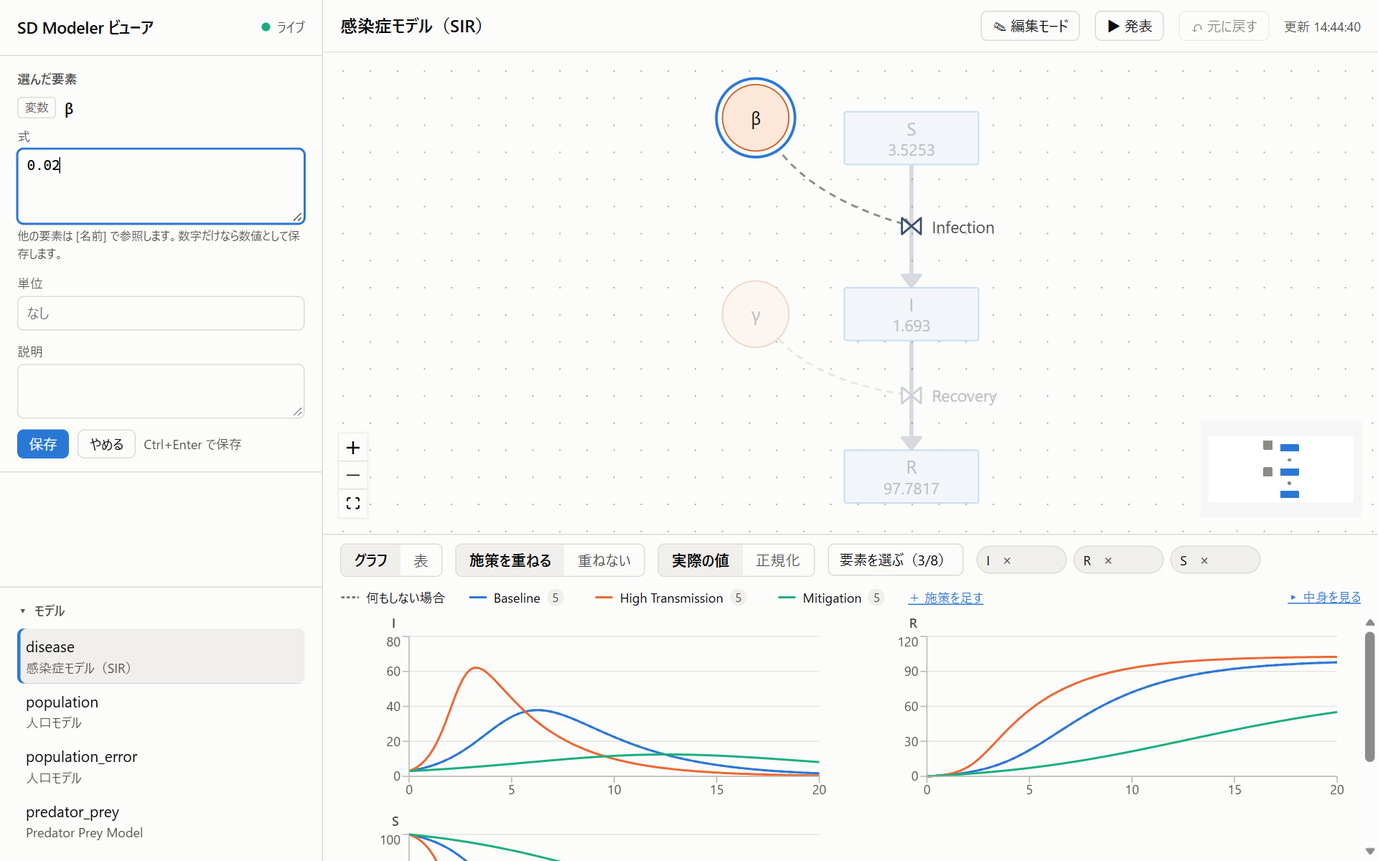
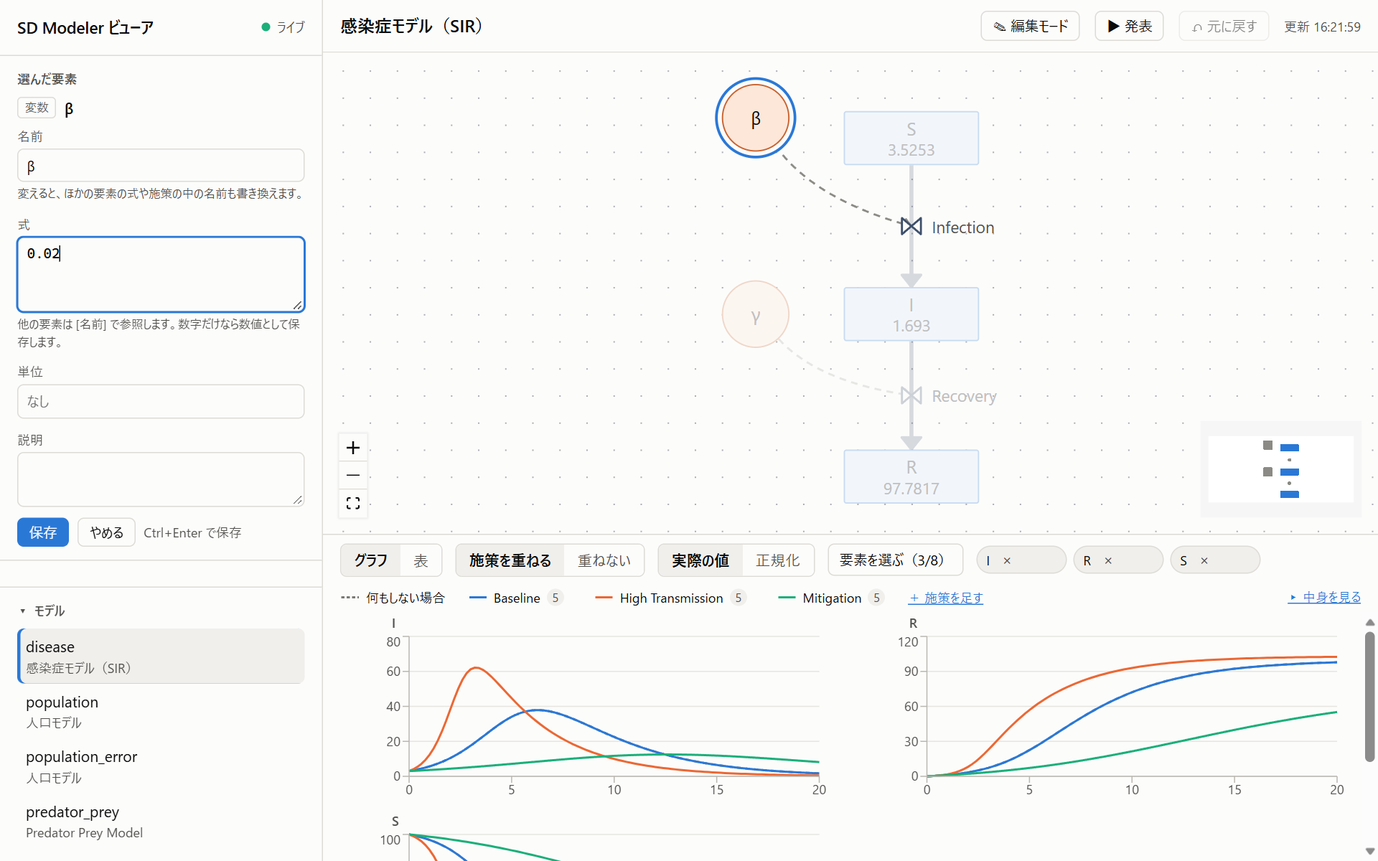
ビューア：詳細欄の「編集」で要素の名前を変える
「編集」の入力欄に「名前」を足し、保存すると rename_to で送る。編集 API と元に戻すの応答に、変わった名前（renamed）を返すようにし、選んでいる要素とグラフに出している要素・線の色を新しい名前に引き継ぐ。元に戻すと旧名に戻る。

VIEWER を直し、レビューで残した 2 点を BACKLOG に書き留める。

diff --git a/web/src/App.tsx b/web/src/App.tsx
@@ -5,7 +5,7 @@ import { fetchList, fetchModel, postEdit, postRemove, postScenarios, postUndo, t
 import { Chart, formatValue, scenarioColor } from "./Chart.js";
 import { Details } from "./Details.js";
 import { Diagram, type LinkEnds, type ScenarioMarks } from "./Diagram.js";
-import { addElementPatches, linkProblem, linkRemoveProblem, type NewElementType } from "./editing.js";
+import { addElementPatches, linkProblem, linkRemoveProblem, renamedName, type NewElementType } from "./editing.js";
 import { toGraph } from "../../src/core/diagram.js";
 import { LOOP_KIND_LABEL, type LoopView } from "../../src/core/loops.js";
 import { findLink, sameName } from "../../src/core/modeljson.js";
@@ -51,6 +51,9 @@ function changedElements(prev: ModelResponse | undefined, next: ModelResponse): 
 /** 順番待ちのあいだに AI などの変更が画面に出たため、送らなかった書き込みの知らせ */
 const SKIPPED_MESSAGE = "画面の変更を送る前に、ほかのところ（AI など）でモデルが変わったため、送りませんでした。いまの内容を確かめて、もう一度直してください。";
 
+/** 名前の変わった要素がないとき。いつも同じ配列にして、表示するたびにグラフを描き直させない */
+const NO_RENAMES: [string, string][] = [];
+
 /** 両端が同じリンクか（大文字と小文字は区別しない） */
 const sameLink = (a: LinkEnds, b: LinkEnds) => sameName(a.from, b.from) && sameName(a.to, b.to);
 
@@ -92,11 +95,13 @@ export function App() {
   // グラフの上の施策の凡例にカーソルを乗せている施策
   const [hoveredScenario, setHoveredScenario] = useState<string>();
   const [changed, setChanged] = useState<Set<string>>(new Set());
+  // いま出している版で名前の変わった要素（画面で名前を変えた・元に戻したとき）。グラフに出す要素を新しい名前に合わせる
+  const [renamed, setRenamed] = useState<[string, string][]>(NO_RENAMES);
   const [updatedAt, setUpdatedAt] = useState<Date>();
   const [busy, setBusy] = useState(false);
   // 編集モード（図の形を変える操作をできるようにする）。うっかり動かさないよう、開くたびにオフから始める（ブラウザに覚えさせない）
   const [editMode, setEditMode] = useState(false);
-  // 画面で要素を足した・消した（元に戻した）あとの版。この版を出している間は、要素が増減しても図の見る場所を合わせ直さない
+  // 画面で要素を足した・消した・名前を変えた（元に戻した）あとの版。この版を出している間は、要素が増減しても図の見る場所を合わせ直さない
   const [keepView, setKeepView] = useState<string>();
   // 要素を消したときの知らせ。元に戻したら閉じる
   const removedNotice = useRef<string>(undefined);
@@ -128,14 +133,24 @@ export function App() {
     }
   }, []);
 
-  /** 新しい内容を表示する。highlight なら、変わった要素に枠を付ける（ほかで変わったとき） */
-  const show = useCallback((next: ModelResponse, highlight: boolean) => {
+  /**
+   * 新しい内容を表示する。highlight なら、変わった要素に枠を付ける（ほかで変わったとき）。
+   * renames は、前の版から名前の変わった要素。選んでいる要素や線を新しい名前で選んだままにし、図の見る場所も動かさない
+   */
+  const show = useCallback((next: ModelResponse, highlight: boolean, renames = NO_RENAMES) => {
     // これより前に始めた読み込みの結果は捨てる
     loadSeq.current++;
     if (highlight) externalSeq.current++;
     const diff = highlight ? changedElements(dataRef.current, next) : new Set<string>();
     dataRef.current = next;
     setData(next);
+    setRenamed(renames);
+    if (renames.length) {
+      setSelected((s) => s && renamedName(s, renames));
+      setSelectedLink((l) => l && { from: renamedName(l.from, renames), to: renamedName(l.to, renames) });
+      // 名前を変えると図のノードの ID も変わるが、要素は増えも減りもしていないので、見る場所を合わせ直さない
+      setKeepView(next.version);
+    }
     setError(undefined);
     setUpdatedAt(new Date());
     if (diff.size) {
@@ -241,7 +256,7 @@ export function App() {
       if (shown && !sameModel(shown, currentRef.current)) return undefined;
       if (result.ok) {
         // 前の知らせ（衝突など）は、利用者が閉じるまで残す
-        show(result.data.model, false);
+        show(result.data.model, false, result.data.renamed);
         // 書き込めたが知らせたいこと（実際のデータの列名を直せなかったときなど）
         if (result.data.warning) setNotice(result.data.warning);
         return undefined;
@@ -711,6 +726,7 @@ export function App() {
               run={data.run}
               scenarios={data.scenarios}
               actual={data.actual}
+              renamed={renamed}
               editingScenario={scenario?.name}
               onEditScenario={(name) => setScenario({ name })}
               onFocusScenario={setHoveredScenario}

diff --git a/web/src/Chart.tsx b/web/src/Chart.tsx
@@ -2,6 +2,7 @@ import { memo, useEffect, useId, useLayoutEffect, useMemo, useRef, useState } fr
 import { CartesianGrid, Line, LineChart, ResponsiveContainer, Tooltip, XAxis, YAxis, type TooltipContentProps } from "recharts";
 import type { ActualDataResult, ModelJSON, RunResult, ScenarioRunResult } from "../../src/viewer/api.js";
 import { sameTime, withActualPoints } from "./actualPoints.js";
+import { renamedName } from "./editing.js";
 import { normalize, normalizeLike, normalizeTogether } from "./normalize.js";
 import { BASELINE_NAME, compareRuns, describeRun, resultRows, valueRows, type CompareRun, type CompareRuns } from "./scenarios.js";
 import { groupCandidates, type SeriesCandidate } from "./seriesPicker.js";
@@ -73,6 +74,9 @@ function assignSlots(visible: string[], prev: Map<string, number>): Map<string, 
   return next;
 }
 
+/** 線の色の割り当てを、名前を変えたあとの名前にする */
+const renamedKeys = (slots: Map<string, number>, renamed: [string, string][]) => new Map([...slots].map(([n, slot]) => [renamedName(n, renamed), slot]));
+
 /**
  * 縦軸の決め方。
  * - value: 値そのまま
@@ -122,6 +126,8 @@ export interface ChartProps {
   scenarios?: ScenarioRunResult[];
   /** 実際のデータ。あれば点で重ねる */
   actual?: ActualDataResult;
+  /** いまの版で名前の変わった要素の [前の名前, 新しい名前]。グラフに出している要素を新しい名前で出し続ける */
+  renamed?: [string, string][];
   /** 左の欄で直している施策の名前（凡例で目立たせる） */
   editingScenario?: string;
   /** 施策の編集欄を開く。name がなければ施策を足す */
@@ -145,11 +151,15 @@ export function scenarioColor(run: RunResult, scenarios: ScenarioRunResult[], na
 /** 施策を重ねているときの、実際のデータの点の色 */
 const ACTUAL_COMPARE_COLOR = "var(--text-primary)";
 
-export function Chart({ modelName, model, run, scenarios, actual, editingScenario, onEditScenario, onFocusScenario }: ChartProps) {
+export function Chart({ modelName, model, run, scenarios, actual, renamed, editingScenario, onEditScenario, onFocusScenario }: ChartProps) {
   const candidates = useMemo(() => candidatesOf(model, run), [model, run]);
   const names = useMemo(() => candidates.map((c) => c.name), [candidates]);
-  const [visible, setVisible] = useState<string[]>(() => defaultVisible(model, names));
-  const [slots, setSlots] = useState<Map<string, number>>(() => assignSlots(visible, new Map()));
+  // グラフに出す要素と線の色。名前を変えた版を受け取った描画では、下の effect が直すまで、前の名前のままになっている
+  const [chosen, setVisible] = useState<string[]>(() => defaultVisible(model, names));
+  const [chosenSlots, setSlots] = useState<Map<string, number>>(() => assignSlots(chosen, new Map()));
+  // そのあいだも線が消えないように、描くときは新しい名前に読み替える
+  const visible = useMemo(() => (renamed?.length ? chosen.map((n) => renamedName(n, renamed)) : chosen), [chosen, renamed]);
+  const slots = useMemo(() => (renamed?.length ? renamedKeys(chosenSlots, renamed) : chosenSlots), [chosenSlots, renamed]);
   const [view, setView] = useState<"chart" | "table">("chart");
   const [scale, setScaleState] = useState<Scale>(loadScale);
   // 施策を重ねるか。施策が保存されていれば、はじめは重ねる
@@ -166,7 +176,7 @@ export function Chart({ modelName, model, run, scenarios, actual, editingScenari
     saveScale(s);
   };
 
-  // 別のモデルを開いたら選び直す。同じモデルの更新では、消えた要素だけ外す
+  // 別のモデルを開いたら選び直す。同じモデルの更新では、名前の変わった要素は新しい名前にし、消えた要素だけ外す
   const [shownModel, setShownModel] = useState(modelName);
   useEffect(() => {
     if (shownModel !== modelName) {
@@ -176,11 +186,13 @@ export function Chart({ modelName, model, run, scenarios, actual, editingScenari
       setSlots(assignSlots(v, new Map()));
       return;
     }
-    const keep = visible.filter((n) => names.includes(n));
-    if (keep.length !== visible.length) {
+    const pairs = renamed ?? [];
+    const keep = chosen.map((n) => renamedName(n, pairs)).filter((n) => names.includes(n));
+    if (keep.length !== chosen.length || keep.some((n, i) => n !== chosen[i])) {
       const v = keep.length ? keep : defaultVisible(model, names);
       setVisible(v);
-      setSlots((s) => assignSlots(v, s));
+      // 線の色は、名前を変えても同じにする
+      setSlots((s) => assignSlots(v, renamedKeys(s, pairs)));
     }
   }, [modelName, model, names]); // eslint-disable-line react-hooks/exhaustive-deps
 

diff --git a/web/src/editing.ts b/web/src/editing.ts
@@ -30,6 +30,7 @@ export function parseTable(text: string): [number, number][] {
 export const tableText = (data: unknown) => (Array.isArray(data) ? (data as [number, number][]).map(([x, y]) => `${x}, ${y}`).join("\n") : "");
 
 export interface Form {
+  name: string;
   equation: string;
   table: string;
   units: string;
@@ -41,6 +42,7 @@ export function formOf(el: ModelElement): Form {
   const b = el.behavior ?? {};
   const eq = el.type === "STOCK" ? b.initial_value : b.value;
   return {
+    name: el.name ?? "",
     equation: eq === undefined ? "" : String(eq),
     table: tableText(b.data),
     units: b.units ? String(b.units) : "",
@@ -53,6 +55,11 @@ export function formOf(el: ModelElement): Form {
 export function patchOf(el: ModelElement, before: Form, after: Form): ElementPatch | undefined {
   const behavior: Record<string, unknown> = {};
   const patch: ElementPatch = { name: el.name! };
+  // 名前を変えると、サーバーが式・施策・実際のデータの列名などの参照も書き換える
+  if (after.name.trim() !== before.name.trim()) {
+    if (!after.name.trim()) throw new Error("名前が空です。");
+    patch.rename_to = after.name.trim();
+  }
   if (el.type !== "CONVERTER" && after.equation.trim() !== before.equation.trim()) {
     if (!after.equation.trim()) throw new Error(el.type === "STOCK" ? "初期値が空です。" : "式が空です。");
     behavior[el.type === "STOCK" ? "initial_value" : "value"] = parseEquation(after.equation);
@@ -63,6 +70,11 @@ export function patchOf(el: ModelElement, before: Form, after: Form): ElementPat
   if (Object.keys(behavior).length) patch.behavior = behavior;
   if (after.description.trim() !== before.description.trim()) patch.description = after.description.trim() || null;
   return Object.keys(patch).length > 1 ? patch : undefined;
+}
+
+/** 名前を変えたあとの名前。変えていなければそのまま（大文字と小文字、前後の空白は区別しない） */
+export function renamedName(name: string, renamed: [string, string][]): string {
+  return renamed.find(([from]) => sameName(from, name))?.[1] ?? name;
 }
 
 /** 編集モードで図に足せる要素の種類 */

diff --git a/web/src/Details.tsx b/web/src/Details.tsx
@@ -2,7 +2,7 @@ import { useEffect, useState } from "react";
 import type { ElementPatch, ModelElement } from "../../src/viewer/api.js";
 import { formOf, patchOf, type Form } from "./editing.js";
 
-// 選んだ要素の詳しい情報と、その編集（E1）。
+// 選んだ要素の詳しい情報と、その編集（E1）。「編集」の中で名前も変えられる（E3）。
 // 編集は MCP の upsert_elements と同じ形（変えた項目だけ）でサーバーに送る。
 
 const TYPE_LABEL: Record<string, string> = {
@@ -52,7 +52,7 @@ export function Details({ el, value, onSave }: DetailsProps) {
       // 編集しているあいだに、この要素がほかで変わった。黙って上書きせず、一度知らせる
       setBase(latest);
       setError(
-        `編集しているあいだに、ほかのところ（AI など）でこの要素が変わりました（いまの${el.type === "STOCK" ? "初期値" : "式"}: ${
+        `編集しているあいだに、ほかのところ（AI など）でこの要素が変わりました（${latest.name !== base.name ? `いまの名前: ${latest.name}、` : ""}いまの${el.type === "STOCK" ? "初期値" : "式"}: ${
           el.type === "CONVERTER" ? latest.table.replace(/\n/g, " / ") : latest.equation || "なし"
         }）。もう一度「保存」を押すと、この欄の内容で上書きします。`,
       );
@@ -107,6 +107,11 @@ export function Details({ el, value, onSave }: DetailsProps) {
       <div className="details" onKeyDown={onKeyDown}>
         {head}
         <div className="form">
+          <label>
+            <span>名前</span>
+            <input value={form.name} onChange={(e) => set("name", e.target.value)} />
+            <small className="muted">変えると、ほかの要素の式や施策の中の名前も書き換えます。</small>
+          </label>
           {el.type === "CONVERTER" ? (
             <label>
               <span>表（1 行に「入力, 出力」）</span>

diff --git a/tests/viewer-editing.test.ts b/tests/viewer-editing.test.ts
@@ -1,6 +1,6 @@
 import { describe, expect, test } from "vitest";
 import { emptyModel, toGraph, upsertElements, type ModelElement } from "../src/core/index.js";
-import { addElementPatches, formOf, linkProblem, linkRemoveProblem, newElementName, parseEquation, parseTable, patchOf } from "../web/src/editing.js";
+import { addElementPatches, formOf, linkProblem, linkRemoveProblem, newElementName, parseEquation, parseTable, patchOf, renamedName } from "../web/src/editing.js";
 
 describe("編集フォームの値", () => {
   test("数字だけなら数値、それ以外は式の文字列", () => {
@@ -54,6 +54,25 @@ describe("送る変更の組み立て", () => {
     const f = formOf(c);
     expect(f.table).toBe("0, 1");
     expect(patchOf(c, f, { ...f, table: "0, 1\n5, 2" })).toEqual({ name: "c", behavior: { data: [[0, 1], [5, 2]] } });
+  });
+
+  test("名前を変えると rename_to で送り、空の名前はエラー", () => {
+    const f = formOf(stock);
+    expect(f.name).toBe("S");
+    expect(patchOf(stock, f, { ...f, name: " 人口 " })).toEqual({ name: "S", rename_to: "人口" });
+    expect(patchOf(stock, f, { ...f, name: "人口", equation: "200" })).toEqual({ name: "S", rename_to: "人口", behavior: { initial_value: 200 } });
+    expect(patchOf(stock, f, { ...f, name: "S " })).toBeUndefined();
+    expect(() => patchOf(stock, f, { ...f, name: " " })).toThrow(/名前が空/);
+  });
+});
+
+describe("名前を変えたあとの名前", () => {
+  test("変えた要素は新しい名前、ほかはそのまま。大文字と小文字は区別しない", () => {
+    const renamed: [string, string][] = [["Population", "人口"]];
+    expect(renamedName("Population", renamed)).toBe("人口");
+    expect(renamedName("population", renamed)).toBe("人口");
+    expect(renamedName("Births", renamed)).toBe("Births");
+    expect(renamedName("Population", [])).toBe("Population");
   });
 });
 

diff --git a/web/src/Diagram.tsx b/web/src/Diagram.tsx
@@ -206,7 +206,7 @@ export interface DiagramProps {
   scenario?: ScenarioMarks;
   /** 編集モード。オンのときだけ要素を動かせて、図の上に編集の道具の場所を出す。選ぶ・薄くするなどの見るための操作はいつでもできる */
   editable?: boolean;
-  /** 画面で要素を足した・消した直後の図。要素が増減しても、見る場所を合わせ直さない（置いた位置と見た目がずれないように） */
+  /** 画面で要素を足した・消した・名前を変えた直後の図。要素が増減しても（名前を変えるとノードの ID も変わる）、見る場所を合わせ直さない（置いた位置と見た目がずれないように） */
   keepView?: boolean;
   /** 編集モードで、図の at（図の座標）に要素を足す */
   onAdd?(type: NewElementType, at: Pos): void;
@@ -594,7 +594,7 @@ const miniMapColor = (n: ModelNodeT) => (n.data.g.kind === "STOCK" ? "var(--stoc
 
 /**
  * 表示範囲を合わせ直す。別のモデルを開いたとき、配置を切り替えたとき、要素が増減したとき、図の欄の大きさが変わったとき。
- * 式や値が変わっただけのとき（AI が値を調整したなど）は動かさない。画面で要素を足した・消したとき（keepView）も、増減では動かさない。
+ * 式や値が変わっただけのとき（AI が値を調整したなど）は動かさない。画面で要素を足した・消した・名前を変えたとき（keepView）も、増減では動かさない。
  * 全体が名前の読める大きさで入らないときは、ストックが入るように合わせる（ほかはドラッグやミニマップで見る）。
  */
 function FitOnChange({

diff --git a/tests/viewer-server.test.ts b/tests/viewer-server.test.ts
@@ -208,6 +208,17 @@ describe("実際のデータ", () => {
     expect(u.body.model.actual!.series).toEqual({ Population: [100] });
   });
 
+  test("名前を変えた・元に戻したときは、変わった名前を返す（画面で選んでいる要素を合わせるため）", async () => {
+    const v0 = (await get<ModelResponse>("/api/models/pop")).body.version;
+    const e1 = await post<EditResponse>("/api/models/pop/edit", { version: v0, elements: [{ name: "Population", rename_to: "人口" }] });
+    expect(e1.body.renamed).toEqual([["Population", "人口"]]);
+    expect(e1.body.model.model.elements.find((e) => e.name === "Births")!.behavior!.value).toMatch(/\[人口\]/);
+    const u = await post<EditResponse>("/api/models/pop/undo", { version: e1.body.model.version });
+    expect(u.body.renamed).toEqual([["人口", "Population"]]);
+    const e2 = await post<EditResponse>("/api/models/pop/edit", { version: u.body.model.version, elements: [{ name: "Population", behavior: { initial_value: 5 } }] });
+    expect(e2.body.renamed).toBeUndefined();
+  });
+
   test("列名を直せなくても、編集は保存して元に戻せるようにし、知らせを添える", async () => {
     const store = new ModelStore(dir);
     // 変えると列名が重なるので、CSV は直せない

diff --git a/src/viewer/server.ts b/src/viewer/server.ts
@@ -378,7 +378,7 @@ export async function startViewer(options: ViewerOptions): Promise<Viewer> {
           if (slides.note) report.notes.push(slides.note);
           const warning = [data.warning, slides.warning].filter(Boolean).join("\n");
           const model = await modelResponse(store, name, current.model, version, hist.length);
-          return [200, warning ? { report, model, warning } : { report, model }];
+          return [200, { report, model, ...(warning ? { warning } : {}), ...(renamed.length ? { renamed } : {}) }];
         }
         if (action === "scenarios") {
           if (!Array.isArray(body.scenarios)) throw new HttpError(400, "scenarios がありません。");
@@ -433,7 +433,7 @@ export async function startViewer(options: ViewerOptions): Promise<Viewer> {
         const slides = await store.renameSlideNames(name, { elements: back, scenarios: backScenarios });
         const warning = [data.warning, slides.warning].filter(Boolean).join("\n");
         const model = await loadModelResponse(store, name, hist.length);
-        return [200, warning ? { model, warning } : { model }];
+        return [200, { model, ...(warning ? { warning } : {}), ...(back.length ? { renamed: back } : {}) }];
       });
       sendJSON(res, result[0], result[1]);
     } catch (e) {

diff --git a/src/viewer/api.ts b/src/viewer/api.ts
@@ -110,6 +110,8 @@ export interface EditResponse {
   model: ModelResponse;
   /** 書き込めたが、知らせたいこと（実際のデータの列名を直せなかったときなど） */
   warning?: string;
+  /** 名前の変わった要素の [前の名前, 新しい名前]（名前を変えた・元に戻したとき）。画面で選んでいる要素を新しい名前に合わせるため */
+  renamed?: [string, string][];
 }
 
 /** 書き込めなかったとき。conflict はほかから先に変えられていた場合で、current に最新を入れる */

diff --git a/docs/VIEWER.md b/docs/VIEWER.md
@@ -280,18 +280,20 @@ AI は `find_loops` でフィードバックループを探し、`view_diagram` 
 
 | 要素 | 直せる項目 |
 |---|---|
-| ストック | 初期値、単位、負にしない、説明 |
-| 変数 | 式、単位、説明 |
-| フロー | 流量、単位、負にしない、説明 |
-| コンバーター | 表（1 行に「入力, 出力」）、単位、説明 |
+| ストック | 名前、初期値、単位、負にしない、説明 |
+| 変数 | 名前、式、単位、説明 |
+| フロー | 名前、流量、単位、負にしない、説明 |
+| コンバーター | 名前、表（1 行に「入力, 出力」）、単位、説明 |
 
 - 式の中では、ほかの要素を `[名前]` で参照します（例：`[Population]*[Birth Rate]`）。数字だけなら数値として保存します
 - 「保存」か Ctrl+Enter で保存します。「やめる」か Esc で、直す前に戻ります
 - 保存すると、すぐにモデルを実行し直して、図の最終値とグラフが変わります
 - 式で新しい要素を参照すると、足りないリンク（点線の矢印）を自動で足します。AI が `upsert_elements` で直したときと同じです
 - 式に誤りがあっても保存はします。左の「問題」にエラーが出るので、直してください
+- 名前を変えると、ほかの要素の式、施策の中の名前、実際のデータの列名、会議資料の筋書きの中の名前も書き換えます。選んでいる要素や線、グラフに出している要素は、新しい名前のまま続きます。図の見る場所も動かしません。「元に戻す」で、名前と書き換えた参照をまとめて戻せます
+- ほかの要素と同じ名前（大文字と小文字の違いだけのものも含む）には変えられません。そのときは、欄の下にエラーが出ます
 
-状態と遷移は編集できません。名前の変更もまだできないので、AI に頼みます。要素を足す・消す、線（リンク）を引く・消すのは、[編集モード](#編集モード)でできます。施策は画面で足したり直したりできます（[施策を直す](#施策を直す)）。
+状態と遷移は編集できません。要素を足す・消す、線（リンク）を引く・消すのは、[編集モード](#編集モード)でできます。施策は画面で足したり直したりできます（[施策を直す](#施策を直す)）。
 
 ## 編集モード
 
@@ -364,7 +366,7 @@ AI は `find_loops` でフィードバックループを探し、`view_diagram` 
 
 ## 元に戻す
 
-上の帯の「↶ 元に戻す」か Ctrl+Z（Mac は ⌘Z）で、画面で変えたことを 1 つずつ元に戻せます。式の変更も、要素の移動も、要素を足す・消すことも、施策の変更（足す・直す・消す）も戻せます。編集モードに関係なく使えます。施策の名前を戻すと、筋書きの中の名前も戻します。
+上の帯の「↶ 元に戻す」か Ctrl+Z（Mac は ⌘Z）で、画面で変えたことを 1 つずつ元に戻せます。式や名前の変更も、要素の移動も、要素を足す・消すことも、施策の変更（足す・直す・消す）も戻せます。編集モードに関係なく使えます。要素や施策の名前を戻すと、式・施策・実際のデータの列名・筋書きの中の名前も戻します。
 
 - 戻せるのは、この画面（ビューア）で変えたことだけです。AI が変えたことは戻せません（AI に頼みます）
 - 画面で変えたあとに AI がモデルを変えていたら、戻しません。AI の変更を消してしまわないためです。そのときは、そのことを知らせます
@@ -426,7 +428,6 @@ AI が MCP でモデルを保存すると、すぐに画面が変わります。
 
 ## できないこと
 
-- 名前を変えること（段階 3 の続きで作る予定。それまでは AI に頼みます）
 - フローの端を、雲からストックにつなぎ替えること。リンクの極性（`+` `-`）を付けること（AI に頼みます）
 - 状態と遷移を編集すること
 - 施策の値を、保存せずにその場で動かして試すこと（施策は保存してから、グラフで比べます）

diff --git a/README.md b/README.md
@@ -147,10 +147,10 @@ npm run viewer
 - **問題：** 検証のエラーと警告を出す。エラーがあるときは実行しない
 - **発表モード：** 上の帯の「▶ 発表」か `?view=present#<モデル名>` で開く。AI が `set_slides` で作った筋書きを、16:9 の画面に大きな文字で 1 枚ずつ出し、← → で進む。式や編集の欄は出さない。`&print=1` を付けると、すべてのスライドを 1 枚 1 ページに並べた印刷の形になる（`export_slides` はこれを PDF にする）
 
-- **編集：** 選んだ要素の式、初期値、単位などを直せる。上の帯の「編集モード」をオンにすると、図の要素をドラッグして位置を保存したり、ストック・フロー・変数を足したり、要素どうしを線（リンク）でつないだり、選んだ要素や線を消したりできる（オフの間は図の形が変わらない）。グラフの上の施策の凡例を押すと、施策（名前、説明、変える値）を直せる。「＋ 施策を足す」で足し、「この施策を消す」で消す。画面で変えたことは「元に戻す」（Ctrl+Z）で戻せる。どれも MCP と同じファイルに書き戻す
+- **編集：** 選んだ要素の名前、式、初期値、単位などを直せる（名前を変えると、式や施策の中の名前も書き換える）。上の帯の「編集モード」をオンにすると、図の要素をドラッグして位置を保存したり、ストック・フロー・変数を足したり、要素どうしを線（リンク）でつないだり、選んだ要素や線を消したりできる（オフの間は図の形が変わらない）。グラフの上の施策の凡例を押すと、施策（名前、説明、変える値）を直せる。「＋ 施策を足す」で足し、「この施策を消す」で消す。画面で変えたことは「元に戻す」（Ctrl+Z）で戻せる。どれも MCP と同じファイルに書き戻す
 - **AI との同時の変更：** 画面より先に AI がモデルを変えていたら、黙って上書きせずに知らせる
 
-名前を変える操作と、フローの端をストックにつなぐ操作は、まだ画面からはできない（AI に頼む）。
+フローの端をストックにつなぐ操作は、まだ画面からはできない（AI に頼む）。
 
 画面の見方は、スクリーンショットつきの [ビューアの使い方](docs/VIEWER.md) にまとめている。
 

diff --git a/docs/ROADMAP.md b/docs/ROADMAP.md
@@ -116,9 +116,9 @@
 - **E4. 書き込みの API（済み）：** 編集、元に戻す、版による衝突の検知、ほかのサイトからの書き込みの拒否
 - **E1. 値と式の編集（済み）**
 - **E2. 配置の編集（済み）。** 左や上にはみ出したら全体をずらして保存する
-- **E3.（これから）名前の変更と図の形の編集。** 次の 4 つに分けて作る
+- **E3. 名前の変更と図の形の編集（済み）。** 次の 4 つに分けて作った
   - 編集モードの切り替え（#33、済み）。オフでは図の要素を動かせない
-  - 詳細欄の「編集」で名前を変える（#34）
+  - 詳細欄の「編集」で名前を変える（#34、済み）。式・施策・実際のデータの列名・筋書きの中の名前も書き換え、元に戻すで戻る。選んでいる要素や線、グラフに出している要素は新しい名前のまま続く
   - 編集モードで要素を足す・消す（#35、済み）。足すときは種類のボタンを押してから図の置きたい場所を押し、仮の名前で置く。消すときはつながるリンクも消し、ストックにつながるフローは残して端を雲にする
   - 編集モードで線（リンク）を引く（#36、済み）。要素の縁からドラッグして別の要素の上で離すか、[＋線] を押してから元 → 先の順に押す。線を押して選び、「削除」か Delete キーで消す。同じ向きのリンク、自分自身へのリンクは引かずに知らせる。先の要素の式が使っているリンクとコンバーターの入力元からのリンクは消せず、選んだときに左の欄に理由を出して「削除」を押せなくする。フローの端を雲からストックにつなぎ替える操作は、別に作る
 
